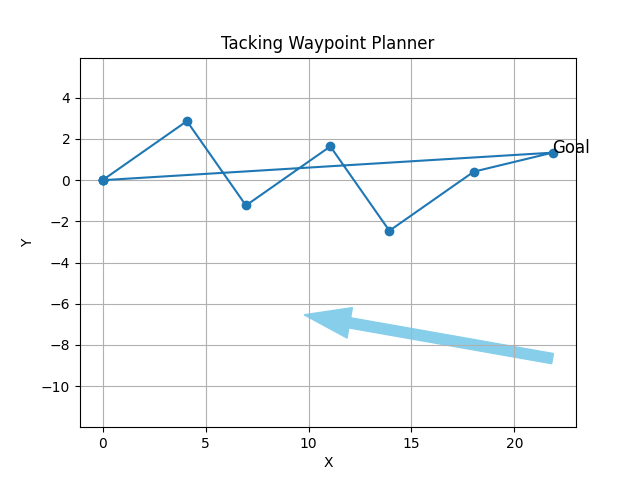
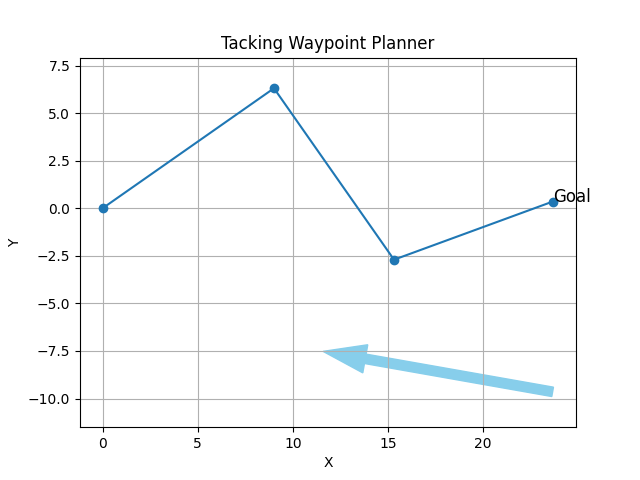
corrected wpts indexing

diff --git a/source/extensions/omni.isaac.lab_tasks/omni/isaac/lab_tasks/direct/kingfisher_sail/test_aerodynamics.py b/source/extensions/omni.isaac.lab_tasks/omni/isaac/lab_tasks/direct/kingfisher_sail/test_aerodynamics.py
@@ -29,17 +29,20 @@ max_target_bearing = 5*torch.pi/180 #torch.pi / 2
 max_cross_track = 8.0
 num_envs = 1  # Number of environments
 
-in_tack_mode = torch.ones(num_envs, device=device)
-
-tack_length = torch.ones(num_envs, device=device)  # Default tack leg length
-num_tack_waypoints = 10  # Default number of waypoints for tacking
-tack_waypoints = torch.zeros((num_envs, num_tack_waypoints, 3), device=device)  # 10 waypoints
-tack_valid_mask = torch.zeros((num_envs, num_tack_waypoints), dtype=torch.bool, device=device)
-
 _desired_pos_w = torch.zeros(num_envs, 3, device=device)
+in_tack_mode = torch.ones(num_envs, device=device)
 initial_distance = torch.zeros_like(_desired_pos_w[0, 0]).uniform_(
             min_target_distance, max_target_distance
         )
+tack_length = torch.ones(num_envs, device=device)  # Default tack leg length
+tack_length = initial_distance // 2
+num_tack_waypoints =   int(tack_length.item()) # Default number of waypoints for tacking
+tack_waypoints = torch.zeros((num_envs, num_tack_waypoints, 3), device=device)  # 10 waypoints
+tack_valid_mask = torch.zeros((num_envs, num_tack_waypoints), dtype=torch.bool, device=device)
+
+
+
+
 
 initial_robot_pos = torch.zeros((num_envs, 3), device=device)  # Initial robot position
 initial_bearing = torch.zeros_like(_desired_pos_w[0, 0]).uniform_(
@@ -147,17 +150,25 @@ def get_desired_bearing(bearing: torch.Tensor, wind_direction: torch.Tensor, min
 
 #=====================================================================================================================#
 
+
 print(aerodynamics.Uw[:])
 tack_waypoints[0, :, :2], _ = generate_tacking_waypoints(
                     start_pos=initial_robot_pos[:, :2], 
                     goal_pos=_desired_pos_w[:, :2], 
                     wind_direction=aerodynamics.Beta_w[:],
                     min_upwind_angle=aerodynamics.cfg.min_upwind_angle, 
-                    tack_leg_length=5*tack_length,
+                    tack_leg_length=tack_length,
                     max_num_waypoints=num_tack_waypoints)
 
+waypoints = tack_waypoints[0, :, :2]
 
-waypoints = tack_waypoints[0, :, :2].cpu().numpy()
+# Compute how many valid (non-zero) rows from the start
+nonzero_mask = torch.norm(waypoints, dim=1) != 0
+nonzero_indices = nonzero_mask.nonzero(as_tuple=False).squeeze()
+
+# Keep from the start to the last non-zero row (inclusive)
+last_valid_idx = nonzero_indices[-1].item()
+waypoints = waypoints[:last_valid_idx + 1].cpu()
 plt.plot(waypoints[:, 0], waypoints[:, 1], marker='o')
 plt.arrow(_desired_pos_w[0, 0].item(), _desired_pos_w[0, 1].item()-10, 10*np.cos(aerodynamics.Beta_w[0].item()), 10*np.sin(aerodynamics.Beta_w[0].item()), color='skyblue', width=0.5)
 plt.text(_desired_pos_w[0, 0].item(), _desired_pos_w[0, 1].item(), "Goal", fontsize=12)

diff --git a/source/extensions/omni.isaac.lab_tasks/omni/isaac/lab_tasks/direct/kingfisher_sail/kingfisher_sail_env.py b/source/extensions/omni.isaac.lab_tasks/omni/isaac/lab_tasks/direct/kingfisher_sail/kingfisher_sail_env.py
@@ -1250,7 +1250,7 @@ class KingfisherSailEnv(DirectRLEnv):
         self.initial_distance[env_ids] = torch.zeros_like(self._desired_pos_w[env_ids, 0]).uniform_(
             self.cfg.min_target_distance, self.cfg.max_target_distance
         )
-    
+        self.next_tack_wpt_idx[env_ids] = 0
         self.distance[env_ids] = self.initial_distance[env_ids]
         self.previous_distance[env_ids] = self.initial_distance[env_ids]
         self._desired_pos_w[env_ids, 0] = torch.cos(self.initial_bearing[env_ids]) * self.initial_distance[env_ids]
